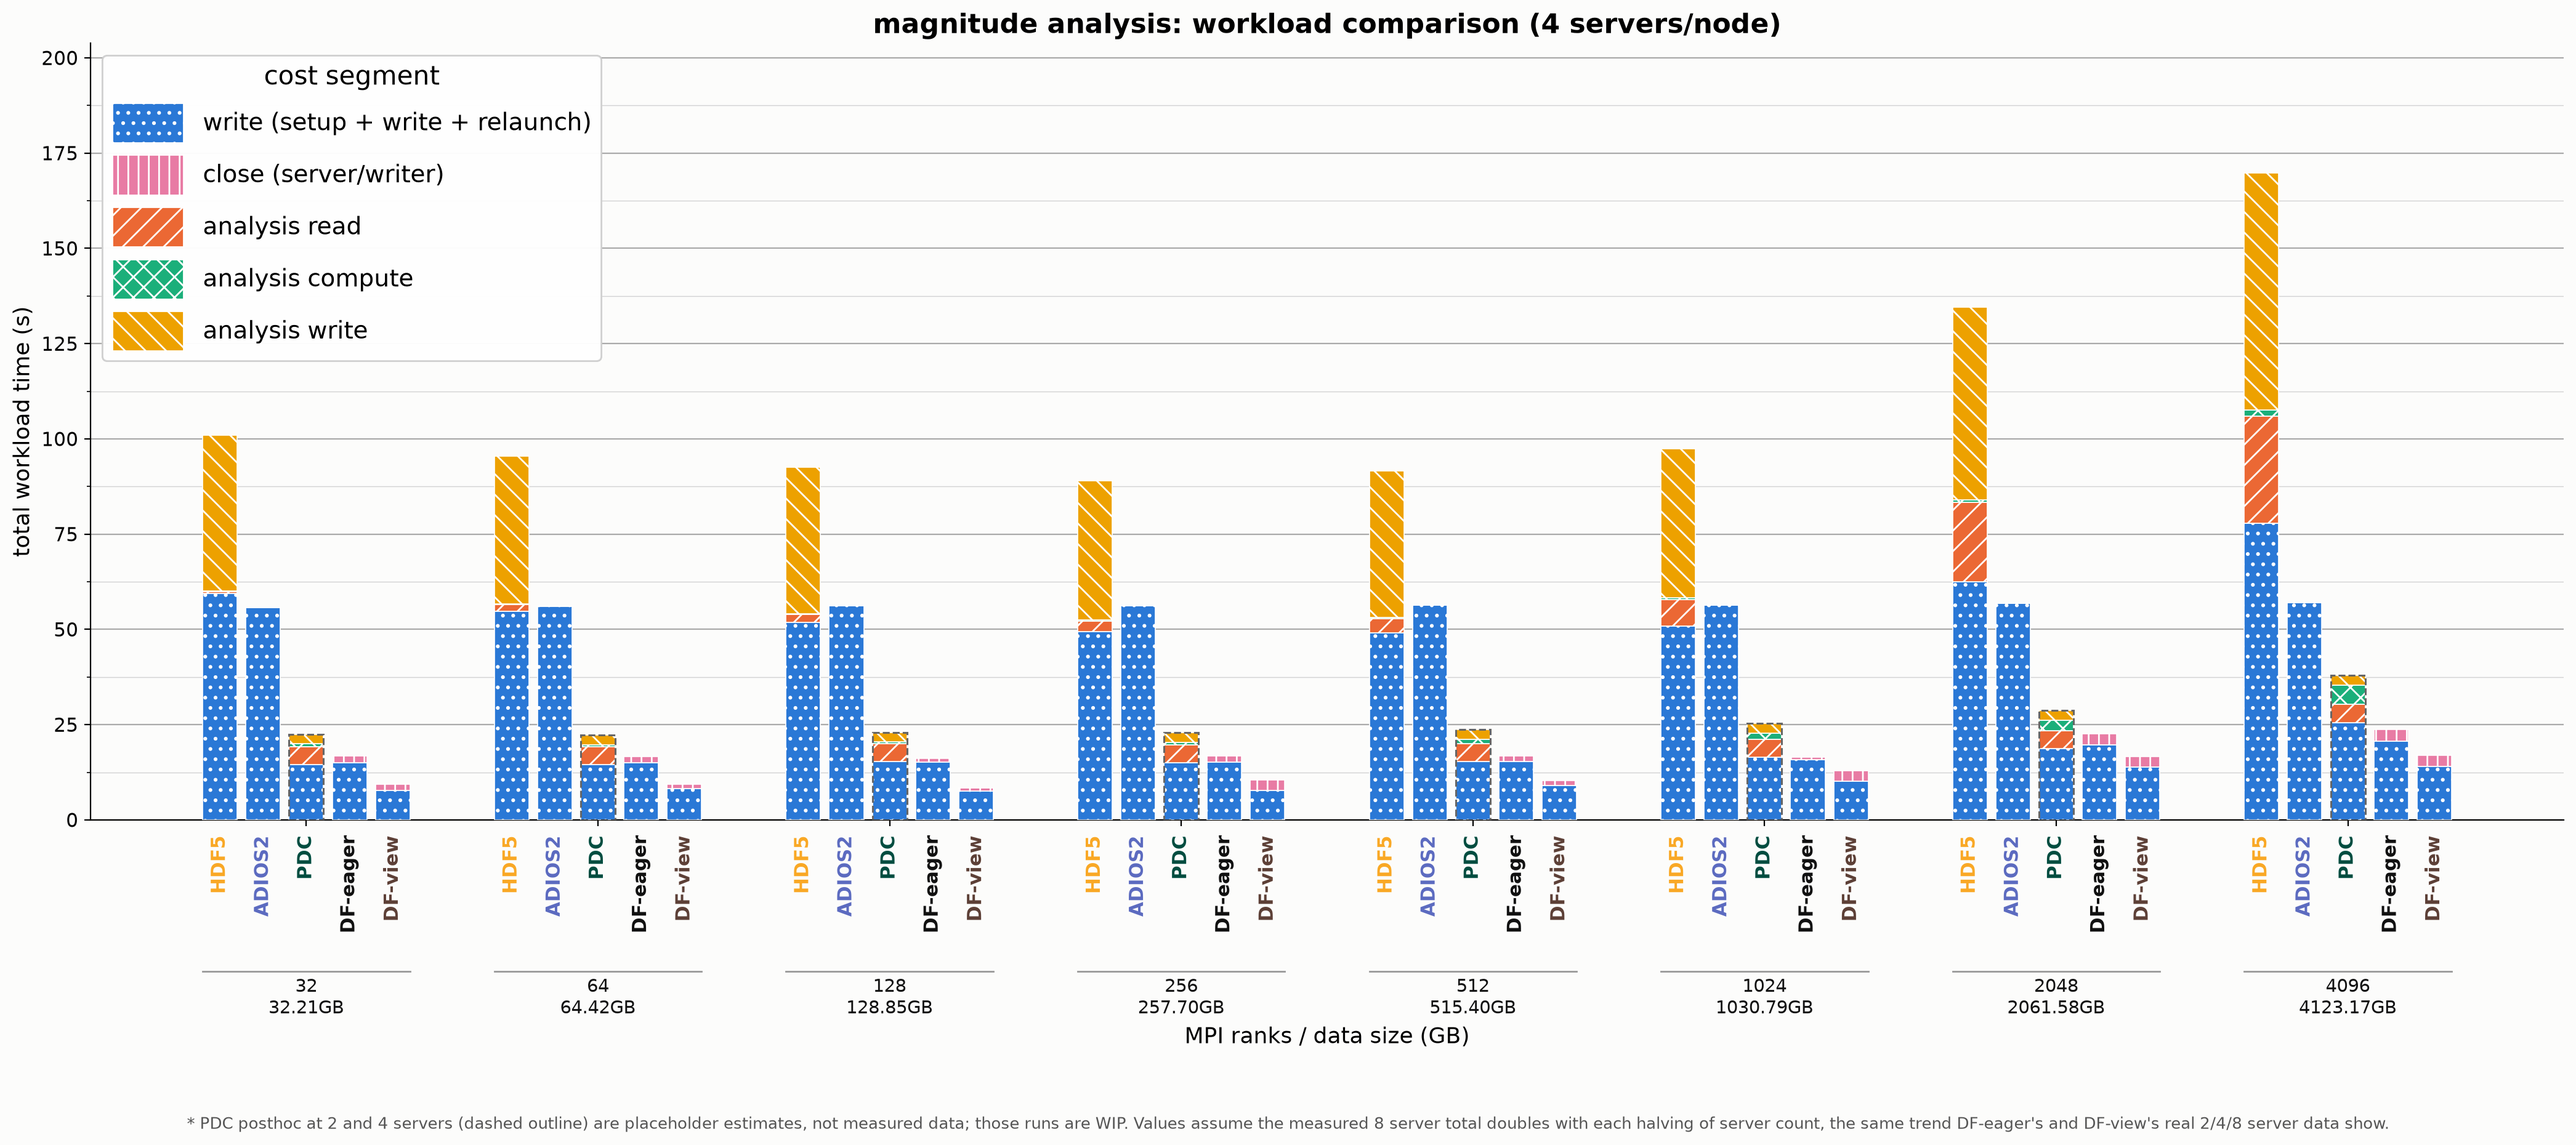
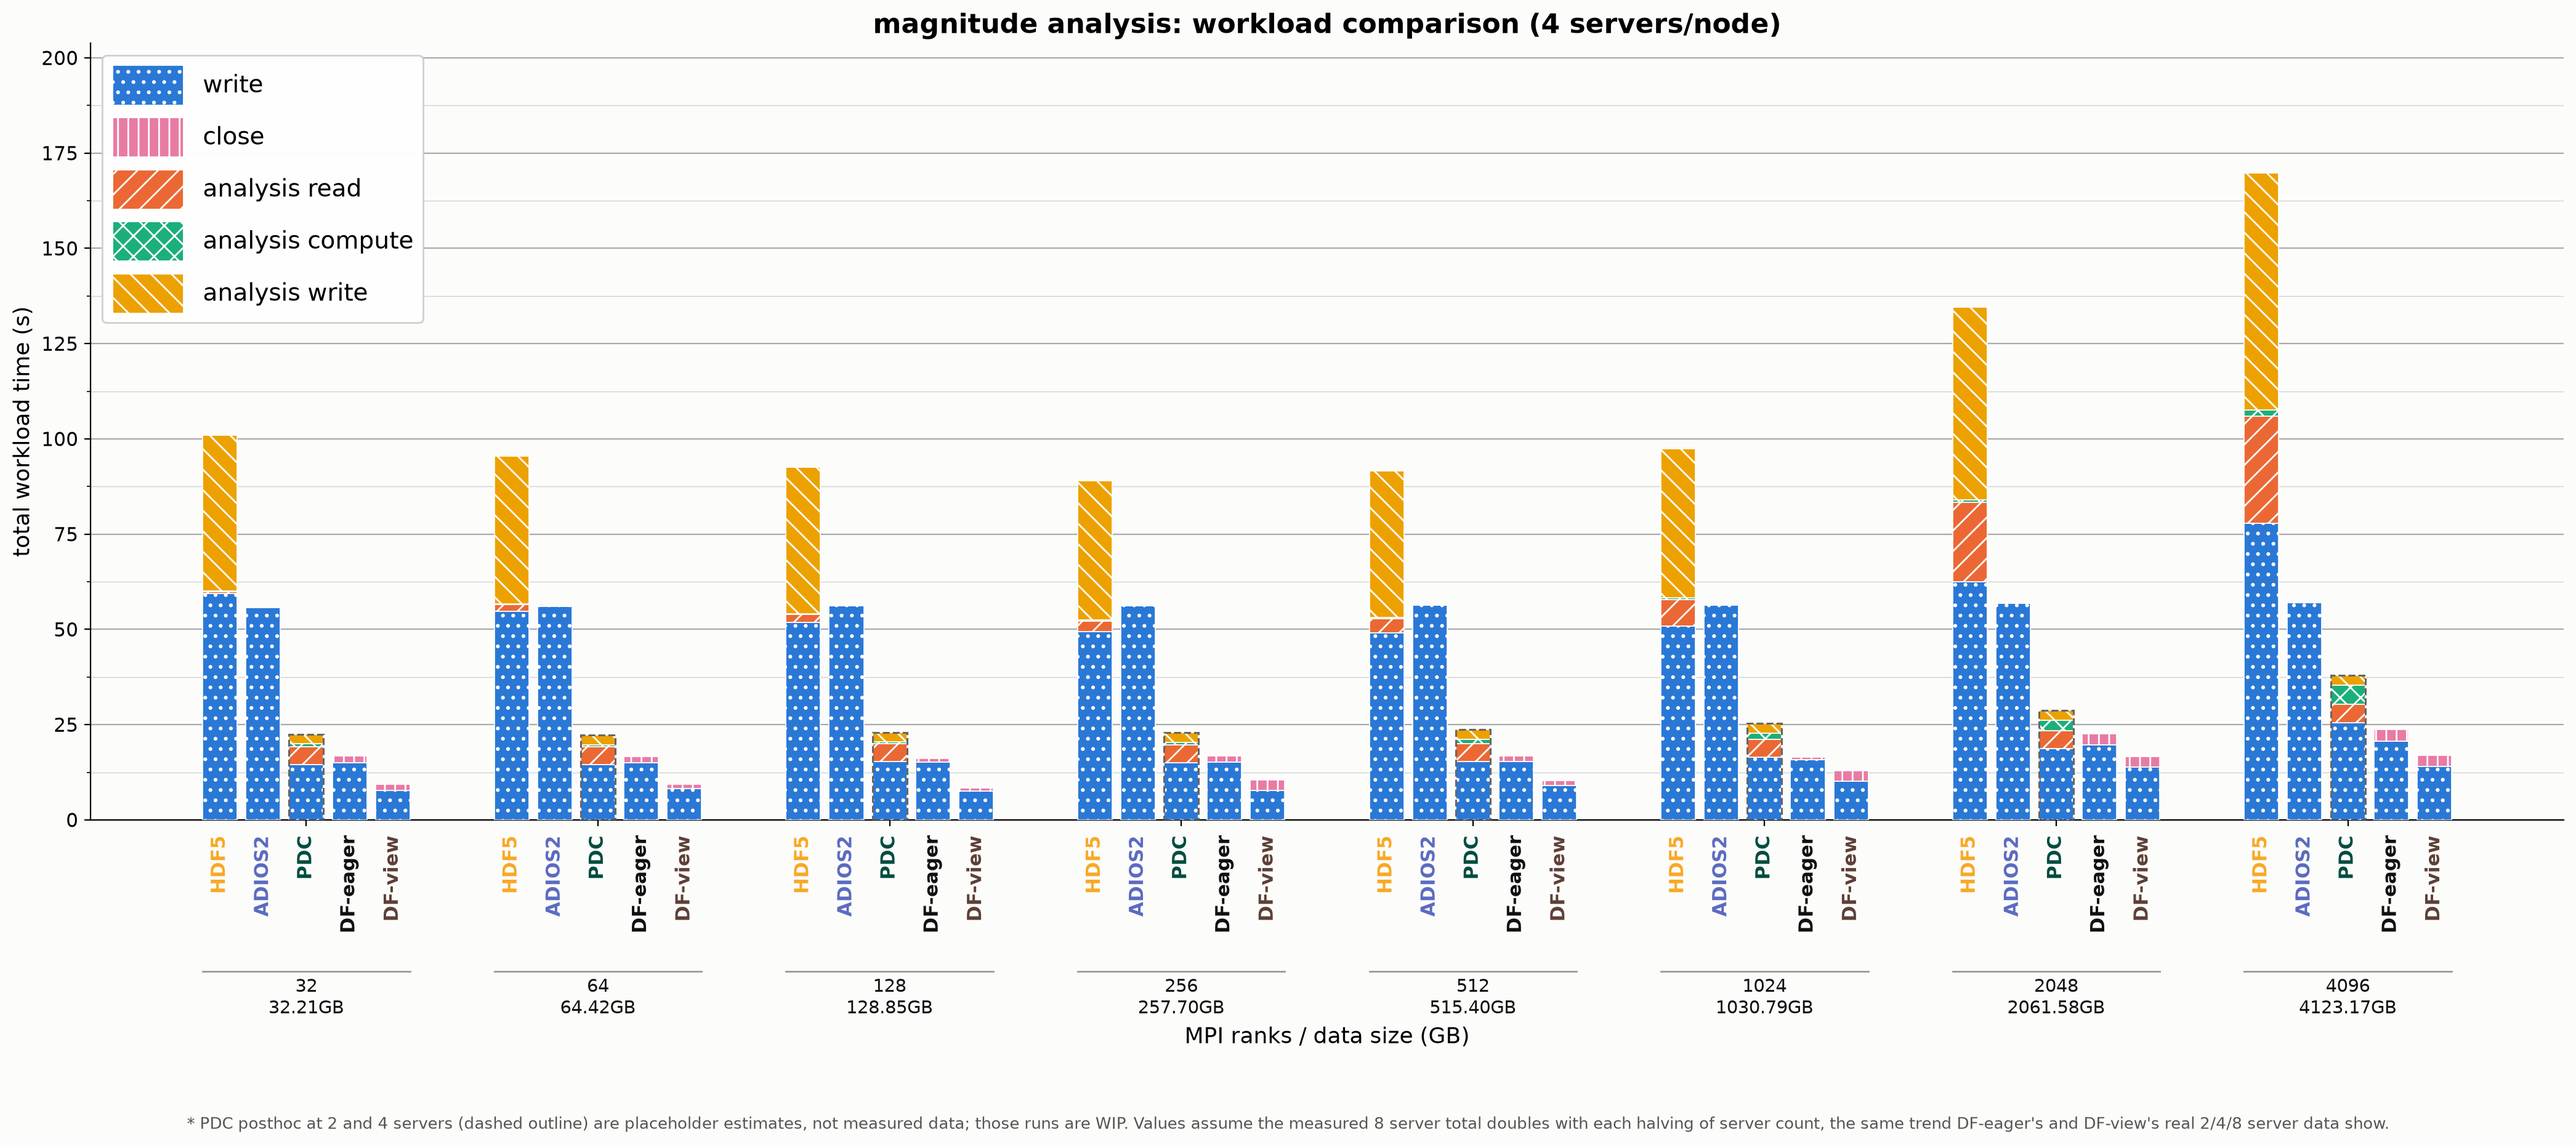
Drop legend titles and parenthetical qualifiers from chart labels
Removed the "cost segment" / "method / series" legend title text
(title=/title_fontsize= kwargs) from all three scripts' legends -- not
needed to understand the legend contents.

Dropped parenthetical qualifiers from segment/series labels across all
three scripts: "write (setup + write + relaunch)" -> "write", "close
(server/writer)" -> "close", "PDC posthoc (8 servers)" -> "PDC
posthoc, 8 servers", "ADIOS2 (client-side compute)" -> "ADIOS2,
client-side compute", vpicio's "write (non-outlier steps)"/"write
(last step, outlier)" -> "write"/"write, last step". Comma-separated
where the qualifier is still useful; dropped entirely where redundant.

Claude-Session: https://claude.ai/code/session_018SQY4wo4xQPFn1NkY3KKc6

Changed region(s): [[0.0311, 0.0624, 0.2175, 0.3118]]

diff --git a/pdc_helper_scripts/plots/plot_curl_comparison.py b/pdc_helper_scripts/plots/plot_curl_comparison.py
@@ -152,7 +152,7 @@ RAW_TO_SEGMENT = {
 }
 SEGMENT_ORDER = ["sim_write", "close", "ana_read", "ana_compute", "ana_write"]
 SEGMENT_LABEL = {
-    "sim_write": "write (setup + write + relaunch)",
+    "sim_write": "write",
     "close": "server close",
     "ana_read": "analysis read",
     "ana_compute": "analysis compute",
@@ -185,9 +185,9 @@ OTHER_MODE_SHORT = {"eager_compress": "ZC", "posthoc": "PH", "hdf5": "H5", "adio
 OTHER_MODE_COLOR = {"eager_compress": "#D81B60", "posthoc": "#00897B", "hdf5": "#F9A825", "adios2_curl": "#5C6BC0"}
 OTHER_MODE_LABEL = {
     "eager_compress": "eager, GPU-ZFP compressed",
-    "posthoc": "PDC posthoc (8 servers)",
+    "posthoc": "PDC posthoc, 8 servers",
     "hdf5": "HDF5 posthoc",
-    "adios2_curl": "ADIOS2 (client-side compute)",
+    "adios2_curl": "ADIOS2, client-side compute",
 }
 # Short form for the rotated per-bar label (kept under ~13 characters, same
 # length budget as plot_magnitude_comparison.py's MODE_LABEL strings, so
@@ -523,7 +523,7 @@ def main():
     ]
     seg_handles = [mpatches.Patch(facecolor=SEGMENT_COLOR[s], hatch=SEGMENT_HATCH[s], edgecolor="white") for s in seg_keys]
     seg_labels = [SEGMENT_LABEL[s] for s in seg_keys]
-    leg1 = ax.legend(seg_handles, seg_labels, title="cost segment", loc="upper left", fontsize=14, title_fontsize=15, handlelength=3, handleheight=2.2)
+    leg1 = ax.legend(seg_handles, seg_labels, loc="upper left", fontsize=14, handlelength=3, handleheight=2.2)
     ax.add_artist(leg1)
 
     series_handles = [
@@ -535,7 +535,7 @@ def main():
     trend_handle = plt.Line2D([0], [0], linestyle="--", linewidth=1.6, color=TREND_COLOR)
     ax.legend(
         series_handles + [trend_handle], series_labels + ["linear fit (eager, per rank count)"],
-        title="method / series", loc="upper right", fontsize=14, title_fontsize=15, handlelength=3,
+        loc="upper right", fontsize=14, handlelength=3,
     )
 
     y_max = max((sum(segs.values()) for k in series for segs, _ in per_series[k].values()), default=1.0)

diff --git a/pdc_helper_scripts/plots/plot_vpicio_comparison.py b/pdc_helper_scripts/plots/plot_vpicio_comparison.py
@@ -131,9 +131,9 @@ RAW_TO_SEGMENT = {
 # concept, rather than a separately-colored segment.
 SEGMENT_ORDER = ["write_main", "write_outlier", "close"]
 SEGMENT_LABEL = {
-    "write_main": "write (non-outlier steps)",
-    "write_outlier": "write (last step, outlier)",
-    "close": "close (server/writer)",
+    "write_main": "write",
+    "write_outlier": "write, last step",
+    "close": "close",
 }
 # Same write/close colors as plot_magnitude_comparison.py's sim_write/
 # close segments, so the same cost category reads as the same color
@@ -503,7 +503,7 @@ def main():
     seg_keys = [s for s in SEGMENT_ORDER if any(per_series[k].get(n, {}).get(s, 0.0) > 0 for k in series for n in all_ranks)]
     seg_handles = [mpatches.Patch(facecolor=SEGMENT_COLOR[s], hatch=SEGMENT_HATCH[s], edgecolor="white") for s in seg_keys]
     seg_labels = [SEGMENT_LABEL[s] for s in seg_keys]
-    leg1 = ax.legend(seg_handles, seg_labels, title="cost segment", loc="upper left", fontsize=14, title_fontsize=15, handlelength=3, handleheight=2.2)
+    leg1 = ax.legend(seg_handles, seg_labels, loc="upper left", fontsize=14, handlelength=3, handleheight=2.2)
     ax.add_artist(leg1)
 
     if trend_label_used:

diff --git a/pdc_helper_scripts/plots/plot_magnitude_comparison.py b/pdc_helper_scripts/plots/plot_magnitude_comparison.py
@@ -134,8 +134,8 @@ RAW_TO_SEGMENT = {
 }
 SEGMENT_ORDER = ["sim_write", "close", "ana_read", "ana_compute", "ana_write"]
 SEGMENT_LABEL = {
-    "sim_write": "write (setup + write + relaunch)",
-    "close": "close (server/writer)",
+    "sim_write": "write",
+    "close": "close",
     "ana_read": "analysis read",
     "ana_compute": "analysis compute",
     "ana_write": "analysis write",
@@ -682,7 +682,7 @@ def main():
     ]
     seg_handles = [mpatches.Patch(facecolor=SEGMENT_COLOR[s], hatch=SEGMENT_HATCH[s], edgecolor="white") for s in seg_keys]
     seg_labels = [SEGMENT_LABEL[s] for s in seg_keys]
-    leg1 = ax.legend(seg_handles, seg_labels, title="cost segment", loc="upper left", fontsize=14, title_fontsize=15, handlelength=3, handleheight=2.2)
+    leg1 = ax.legend(seg_handles, seg_labels, loc="upper left", fontsize=14, handlelength=3, handleheight=2.2)
     ax.add_artist(leg1)
 
     if trend_label_used:
